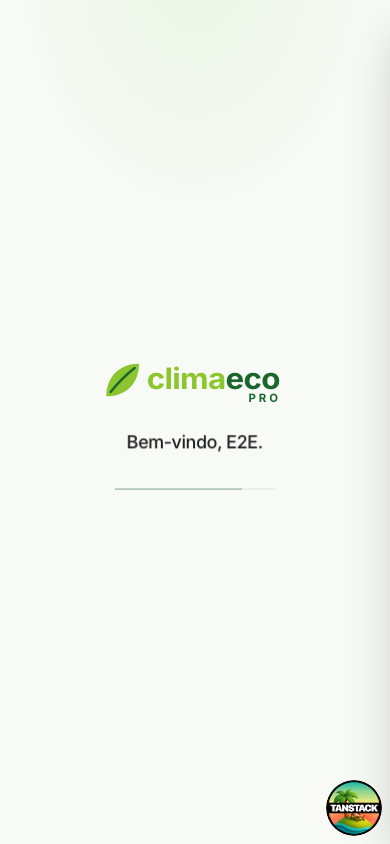
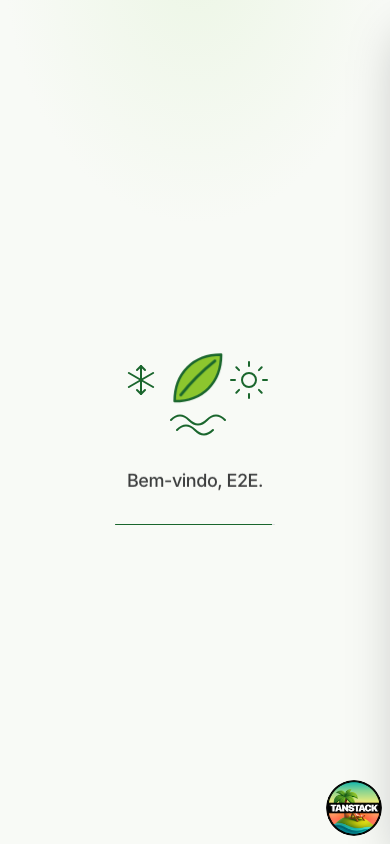
Welcome interstitial: drawn leaf with cooling, heating and water glyphs instead of the wordmark
The leaf outline draws itself and fills with the brand green, then a
snowflake, a sun and two waves draw around it in turn (stroke-dash on
pathLength=1 paths). Paths stay invisible until their own draw starts, so
round caps leave no dots. About 2.3s total; reduced motion shows the
finished frame.

Changed region(s): [[0.2769, 0.4005, 0.7385, 0.5853]]

diff --git a/client-frontend/src/routes/bem-vindo.tsx b/client-frontend/src/routes/bem-vindo.tsx
@@ -2,18 +2,17 @@ import { useEffect, useState } from "react"
 import { Show, useUser } from "@clerk/tanstack-react-start"
 import { createFileRoute, Navigate, useNavigate } from "@tanstack/react-router"
 
-import { Wordmark } from "@/components/brand/wordmark"
 import { caminhoDeEntrada } from "@/lib/auth-gate"
 
 /** How long the animation plays before the destination opens. */
-const DURACAO_MS = 1600
+const DURACAO_MS = 2300
 const DURACAO_REDUZIDA_MS = 350
 
 /**
- * Welcome interstitial after signing in or registering: a beat with the brand
- * before the environment appears. `?para=` is the destination, restricted to
- * the environment and the catalog (`caminhoDeEntrada`). Standalone page, no
- * shell. Reduced-motion users see a static frame for a moment instead.
+ * Welcome interstitial after signing in or registering: a beat with what we
+ * sell before the environment appears. `?para=` is the destination, restricted
+ * to the environment and the catalog (`caminhoDeEntrada`). Standalone page, no
+ * shell. Reduced-motion users see the finished frame for a moment instead.
  */
 export const Route = createFileRoute("/bem-vindo")({
   validateSearch: (search: Record<string, unknown>): { para: string } => ({
@@ -60,17 +59,17 @@ function BemVindoPage() {
       <Show when="signed-out">
         <Navigate to="/entrar" />
       </Show>
-      <div className="entrada-marca flex flex-col items-center">
-        <Wordmark className="h-12 sm:h-14" />
+      <div className="flex flex-col items-center">
+        <Clima />
         <p
           className="animate-rise mt-6 text-center text-lg font-medium tracking-tight text-foreground"
-          style={{ "--delay": "350ms" } as React.CSSProperties}
+          style={{ "--delay": "1400ms" } as React.CSSProperties}
         >
           {nome ? `Bem-vindo, ${nome}.` : "Bem-vindo."}
         </p>
         <div
           className="animate-rise mt-8 h-px w-40 overflow-hidden rounded-full bg-border"
-          style={{ "--delay": "350ms" } as React.CSSProperties}
+          style={{ "--delay": "300ms" } as React.CSSProperties}
           role="progressbar"
           aria-label="A abrir a sua área"
         >
@@ -78,5 +77,98 @@ function BemVindoPage() {
         </div>
       </div>
     </div>
+  )
+}
+
+/**
+ * The leaf from the mark draws itself and fills, then the three things an
+ * installer buys from us appear around it, each drawn as a line: a snowflake
+ * (cooling), a sun (heating) and waves (water). Every path carries
+ * `pathLength=1` so one dash rule animates them all; timing lives in
+ * `styles.css` under "Welcome interstitial".
+ */
+function Clima() {
+  return (
+    <svg
+      viewBox="0 0 160 120"
+      className="clima h-[120px] w-[160px] sm:h-[144px] sm:w-[192px]"
+      role="img"
+      aria-label="Climatização: frio, calor e água"
+      fill="none"
+      strokeLinecap="round"
+      strokeLinejoin="round"
+    >
+      {/* Leaf: outline draws, then the fill fades in. */}
+      <g transform="translate(55 30) scale(1.55)">
+        <path
+          className="clima-folha-preencher"
+          d="M3 33C3 15 15 3 33 3c0 18-12 30-30 30Z"
+          fill="var(--brand)"
+          stroke="none"
+        />
+        <path
+          className="clima-traco clima-folha"
+          d="M3 33C3 15 15 3 33 3c0 18-12 30-30 30Z"
+          pathLength={1}
+          stroke="var(--primary)"
+          strokeWidth={1.6}
+        />
+        <path
+          className="clima-traco clima-nervura"
+          d="M7 29C12.5 22 19.5 14.5 29 7"
+          pathLength={1}
+          stroke="var(--primary)"
+          strokeWidth={1.8}
+        />
+      </g>
+
+      {/* Snowflake (cooling), left. */}
+      <g
+        className="clima-glifo clima-frio"
+        stroke="var(--primary)"
+        strokeWidth={2}
+      >
+        <path className="clima-traco" pathLength={1} d="M26 46v28" />
+        <path className="clima-traco" pathLength={1} d="M13.9 53l24.2 14" />
+        <path className="clima-traco" pathLength={1} d="M13.9 67l24.2-14" />
+        <path
+          className="clima-traco"
+          pathLength={1}
+          d="M22 50l4-4 4 4M22 70l4 4 4-4"
+        />
+      </g>
+
+      {/* Sun (heating), right: disc then eight rays. */}
+      <g
+        className="clima-glifo clima-calor"
+        stroke="var(--primary)"
+        strokeWidth={2}
+      >
+        <circle className="clima-traco" pathLength={1} cx={134} cy={60} r={7} />
+        <path
+          className="clima-traco"
+          pathLength={1}
+          d="M134 46v-4M134 78v-4M120 60h-4M152 60h-4M124.1 50.1l-2.8-2.8M146.7 72.7l-2.8-2.8M124.1 69.9l-2.8 2.8M146.7 47.3l-2.8 2.8"
+        />
+      </g>
+
+      {/* Waves (water), below. */}
+      <g
+        className="clima-glifo clima-agua"
+        stroke="var(--primary)"
+        strokeWidth={2}
+      >
+        <path
+          className="clima-traco"
+          pathLength={1}
+          d="M56 100c6-6 12-6 18 0s12 6 18 0 12-6 18 0"
+        />
+        <path
+          className="clima-traco"
+          pathLength={1}
+          d="M62 110c6-6 12-6 18 0s12 6 18 0"
+        />
+      </g>
+    </svg>
   )
 }

diff --git a/client-frontend/src/styles.css b/client-frontend/src/styles.css
@@ -333,19 +333,32 @@
 }
 
 /* ---------------------------------------------------------------------------
- * Welcome interstitial (/bem-vindo): the wordmark settles in, the greeting
- * rises under it, and a hairline fills while the destination loads.
+ * Welcome interstitial (/bem-vindo): the leaf draws and fills, then the
+ * cooling / heating / water glyphs draw around it in turn; a hairline fills
+ * while the destination loads. Paths use pathLength="1" so a single dash rule
+ * draws any of them.
  * ------------------------------------------------------------------------- */
-@keyframes marca-in {
+/* Round caps would show a dot at the start of an undrawn path, so a path
+ * stays invisible until its own draw begins. */
+@keyframes traco-desenhar {
+  0% {
+    stroke-dashoffset: 1;
+    opacity: 0;
+  }
+  3% {
+    opacity: 1;
+  }
+  100% {
+    stroke-dashoffset: 0;
+    opacity: 1;
+  }
+}
+@keyframes aparecer {
   from {
     opacity: 0;
-    transform: scale(0.92) translateY(6px);
-    filter: blur(6px);
   }
   to {
     opacity: 1;
-    transform: none;
-    filter: blur(0);
   }
 }
 @keyframes barra-preencher {
@@ -356,19 +369,47 @@
     transform: scaleX(1);
   }
 }
-.entrada-marca {
-  animation: marca-in 0.7s cubic-bezier(0.22, 0.61, 0.36, 1) both;
+.clima-traco {
+  stroke-dasharray: 1;
+  stroke-dashoffset: 1;
+  animation: traco-desenhar 0.6s cubic-bezier(0.4, 0, 0.2, 1) both;
+  animation-delay: var(--delay, 0ms);
+}
+.clima-folha {
+  --delay: 0ms;
+  animation-duration: 0.8s;
+}
+.clima-nervura {
+  --delay: 500ms;
+  animation-duration: 0.45s;
+}
+.clima-folha-preencher {
+  opacity: 0;
+  animation: aparecer 0.5s ease-out 0.7s both;
+}
+.clima-frio .clima-traco {
+  --delay: 900ms;
+  animation-duration: 0.4s;
+}
+.clima-calor .clima-traco {
+  --delay: 1100ms;
+  animation-duration: 0.45s;
+}
+.clima-agua .clima-traco {
+  --delay: 1300ms;
+  animation-duration: 0.45s;
 }
 .entrada-barra {
   transform-origin: left;
-  animation: barra-preencher 1.1s cubic-bezier(0.4, 0, 0.2, 1) 0.35s both;
+  animation: barra-preencher 1.7s cubic-bezier(0.4, 0, 0.2, 1) 0.35s both;
 }
 @media (prefers-reduced-motion: reduce) {
-  .entrada-marca,
+  .clima-traco,
+  .clima-folha-preencher,
   .entrada-barra {
     animation: none;
-    transform: none;
+    stroke-dashoffset: 0;
     opacity: 1;
-    filter: none;
+    transform: none;
   }
 }
